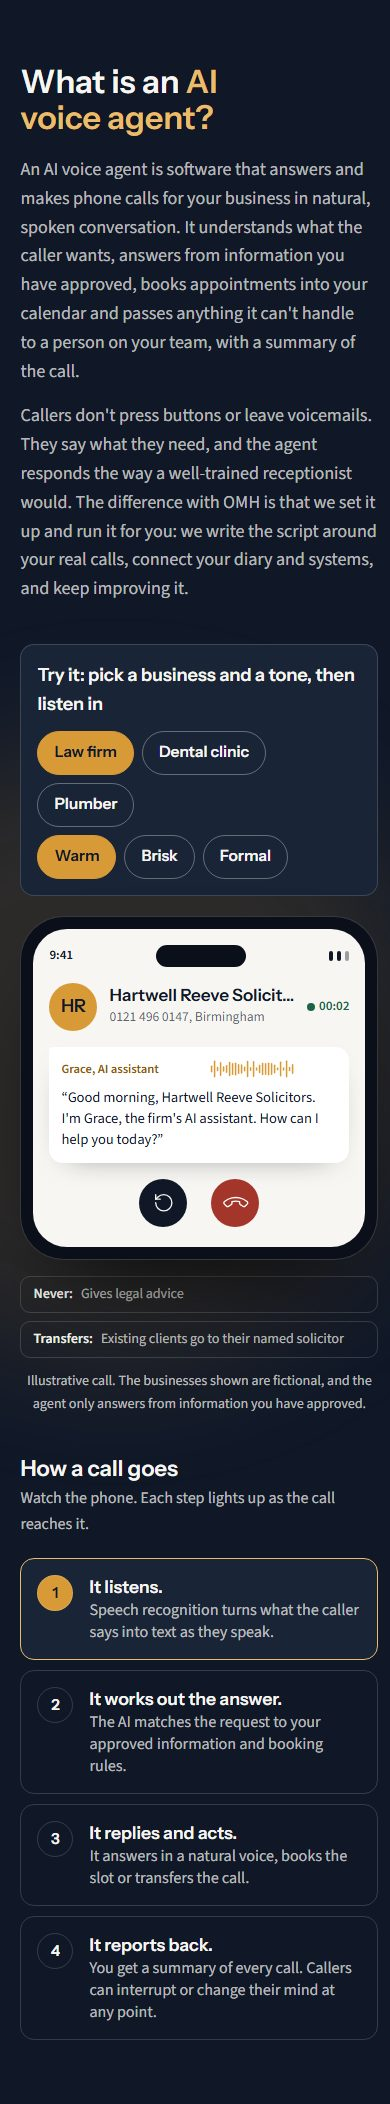
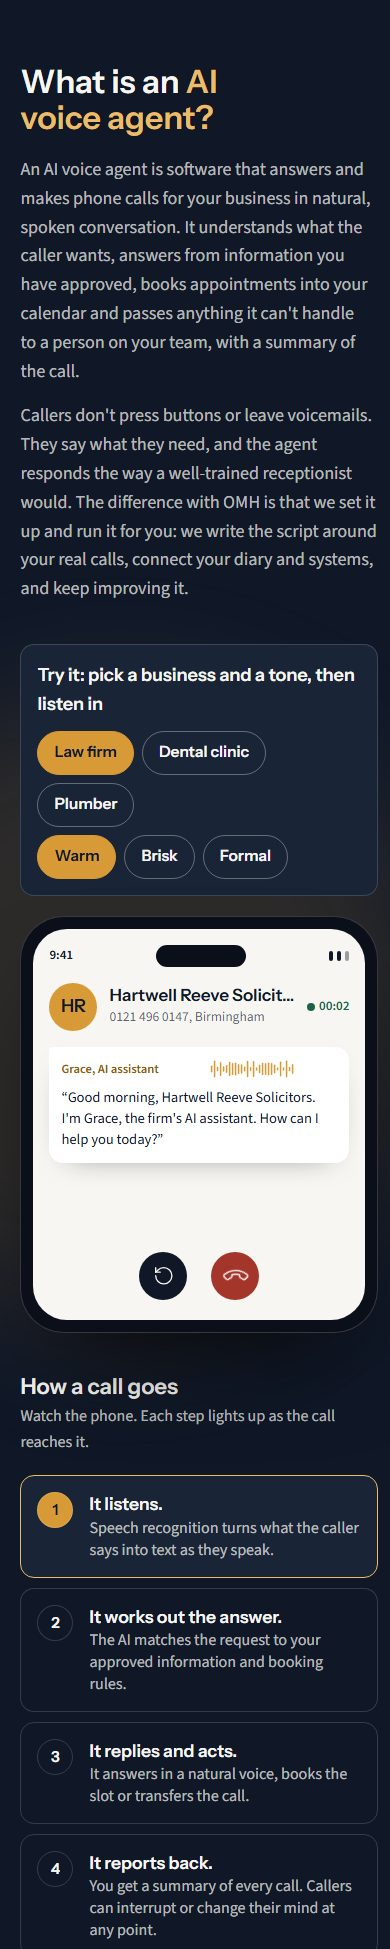
/ai-voice-agents: tidy the call player, hide unbuilt links, fix feedback reveal, mobile comparison cards
Removes the Never/Transfers tiles and caption under the call-player phone.
Hides the Industries grid "Learn more" links until those pages exist; the
industry tabs link only to the three pages that do. Client feedback cards no
longer depend on a scroll-reveal observer (they rendered blank after a
reload) and the YouTube note is gone. The mobile comparison is one card per
criterion with a labelled OMH cell and a labelled alternative cell.

diff --git a/lib/content/ai-voice-agents-legacy.ts b/lib/content/ai-voice-agents-legacy.ts
@@ -80,10 +80,6 @@ export const legacyMarkup = String.raw`
           <li class="flex gap-2.5"><svg class="icon mt-[3px] text-hl" aria-hidden="true" focusable="false"><use href="#i-check"/></svg><span>Qualify buyers and tenants</span></li>
           <li class="flex gap-2.5"><svg class="icon mt-[3px] text-hl" aria-hidden="true" focusable="false"><use href="#i-check"/></svg><span>Log tenant maintenance calls</span></li>
         </ul>
-        
-                <div class="pt-4">
-          <a href="/contact?service=ai-voice-agents&amp;industry=estate-letting-agents" data-future-href="/ai-voice-agents/estate-letting-agents" class="text-link" data-track="industry_click" data-track-name="Estate &amp; Letting Agents">Learn more<span class="sr-only"> about voice agents for estate &amp; letting agents</span><svg class="icon " aria-hidden="true" focusable="false"><use href="#i-arrow-right"/></svg></a>
-        </div>
         </div>
       </article>
       <article class="grid items-start gap-4 rounded-[18px] border border-line bg-surface p-5 sm:grid-cols-[160px_minmax(0,1fr)] sm:gap-6" data-industry data-group="health">
@@ -113,9 +109,6 @@ export const legacyMarkup = String.raw`
           <li class="flex gap-2.5"><svg class="icon mt-[3px] text-hl" aria-hidden="true" focusable="false"><use href="#i-check"/></svg><span>Route urgent calls to your emergency line</span></li>
         </ul>
         <p class="mt-3 flex items-center gap-2 rounded-[10px] border border-line bg-surface px-3 py-2 text-[16px] font-semibold"><svg class="icon text-hl" aria-hidden="true" focusable="false"><use href="#i-shield"/></svg><span>No clinical or medical advice given.</span></p>
-                <div class="pt-4">
-          <a href="/contact?service=ai-voice-agents&amp;industry=dental-clinics" data-future-href="/ai-voice-agents/dental-clinics" class="text-link" data-track="industry_click" data-track-name="Dental Clinics">Learn more<span class="sr-only"> about voice agents for dental clinics</span><svg class="icon " aria-hidden="true" focusable="false"><use href="#i-arrow-right"/></svg></a>
-        </div>
         </div>
       </article>
       <article class="grid items-start gap-4 rounded-[18px] border border-line bg-surface p-5 sm:grid-cols-[160px_minmax(0,1fr)] sm:gap-6" data-industry data-group="health">
@@ -145,9 +138,6 @@ export const legacyMarkup = String.raw`
           <li class="flex gap-2.5"><svg class="icon mt-[3px] text-hl" aria-hidden="true" focusable="false"><use href="#i-check"/></svg><span>Confirmation calls to cut no-shows</span></li>
         </ul>
         <p class="mt-3 flex items-center gap-2 rounded-[10px] border border-line bg-surface px-3 py-2 text-[16px] font-semibold"><svg class="icon text-hl" aria-hidden="true" focusable="false"><use href="#i-shield"/></svg><span>No clinical or medical advice given.</span></p>
-                <div class="pt-4">
-          <a href="/contact?service=ai-voice-agents&amp;industry=clinics-healthcare" data-future-href="/ai-voice-agents/clinics-healthcare" class="text-link" data-track="industry_click" data-track-name="Clinics &amp; Healthcare">Learn more<span class="sr-only"> about voice agents for clinics &amp; healthcare</span><svg class="icon " aria-hidden="true" focusable="false"><use href="#i-arrow-right"/></svg></a>
-        </div>
         </div>
       </article>
       <article class="grid items-start gap-4 rounded-[18px] border border-line bg-surface p-5 sm:grid-cols-[160px_minmax(0,1fr)] sm:gap-6" data-industry data-group="trades">
@@ -179,10 +169,6 @@ export const legacyMarkup = String.raw`
           <li class="flex gap-2.5"><svg class="icon mt-[3px] text-hl" aria-hidden="true" focusable="false"><use href="#i-check"/></svg><span>Put emergencies through to the plumber on call</span></li>
           <li class="flex gap-2.5"><svg class="icon mt-[3px] text-hl" aria-hidden="true" focusable="false"><use href="#i-check"/></svg><span>Book quote visits</span></li>
         </ul>
-        
-                <div class="pt-4">
-          <a href="/contact?service=ai-voice-agents&amp;industry=plumbers" data-future-href="/ai-voice-agents/plumbers" class="text-link" data-track="industry_click" data-track-name="Plumbers">Learn more<span class="sr-only"> about voice agents for plumbers</span><svg class="icon " aria-hidden="true" focusable="false"><use href="#i-arrow-right"/></svg></a>
-        </div>
         </div>
       </article>
       <article class="grid items-start gap-4 rounded-[18px] border border-line bg-surface p-5 sm:grid-cols-[160px_minmax(0,1fr)] sm:gap-6" data-industry data-group="trades">
@@ -214,10 +200,6 @@ export const legacyMarkup = String.raw`
           <li class="flex gap-2.5"><svg class="icon mt-[3px] text-hl" aria-hidden="true" focusable="false"><use href="#i-check"/></svg><span>Record make, model and fault code</span></li>
           <li class="flex gap-2.5"><svg class="icon mt-[3px] text-hl" aria-hidden="true" focusable="false"><use href="#i-check"/></svg><span>Put no-heating calls first</span></li>
         </ul>
-        
-                <div class="pt-4">
-          <a href="/contact?service=ai-voice-agents&amp;industry=heating-hvac" data-future-href="/ai-voice-agents/heating-hvac" class="text-link" data-track="industry_click" data-track-name="Heating &amp; HVAC">Learn more<span class="sr-only"> about voice agents for heating &amp; hvac</span><svg class="icon " aria-hidden="true" focusable="false"><use href="#i-arrow-right"/></svg></a>
-        </div>
         </div>
       </article>
       <article class="grid items-start gap-4 rounded-[18px] border border-line bg-surface p-5 sm:grid-cols-[160px_minmax(0,1fr)] sm:gap-6" data-industry data-group="trades">
@@ -243,10 +225,6 @@ export const legacyMarkup = String.raw`
           <li class="flex gap-2.5"><svg class="icon mt-[3px] text-hl" aria-hidden="true" focusable="false"><use href="#i-check"/></svg><span>Book site visits and quotes</span></li>
           <li class="flex gap-2.5"><svg class="icon mt-[3px] text-hl" aria-hidden="true" focusable="false"><use href="#i-check"/></svg><span>Route clients to their site manager</span></li>
         </ul>
-        
-                <div class="pt-4">
-          <a href="/contact?service=ai-voice-agents&amp;industry=contractors-builders" data-future-href="/ai-voice-agents/contractors-builders" class="text-link" data-track="industry_click" data-track-name="Contractors &amp; Builders">Learn more<span class="sr-only"> about voice agents for contractors &amp; builders</span><svg class="icon " aria-hidden="true" focusable="false"><use href="#i-arrow-right"/></svg></a>
-        </div>
         </div>
       </article>
       <article class="grid items-start gap-4 rounded-[18px] border border-line bg-surface p-5 sm:grid-cols-[160px_minmax(0,1fr)] sm:gap-6" data-industry data-group="professional">
@@ -271,9 +249,6 @@ export const legacyMarkup = String.raw`
           <li class="flex gap-2.5"><svg class="icon mt-[3px] text-hl" aria-hidden="true" focusable="false"><use href="#i-check"/></svg><span>Route clients to their named solicitor</span></li>
         </ul>
         <p class="mt-3 flex items-center gap-2 rounded-[10px] border border-line bg-surface px-3 py-2 text-[16px] font-semibold"><svg class="icon text-hl" aria-hidden="true" focusable="false"><use href="#i-shield"/></svg><span>No legal advice given.</span></p>
-                <div class="pt-4">
-          <a href="/contact?service=ai-voice-agents&amp;industry=law-firms" data-future-href="/ai-voice-agents/law-firms" class="text-link" data-track="industry_click" data-track-name="Law Firms">Learn more<span class="sr-only"> about voice agents for law firms</span><svg class="icon " aria-hidden="true" focusable="false"><use href="#i-arrow-right"/></svg></a>
-        </div>
         </div>
       </article>
       <article class="grid items-start gap-4 rounded-[18px] border border-line bg-surface p-5 sm:grid-cols-[160px_minmax(0,1fr)] sm:gap-6" data-industry data-group="professional">
@@ -297,10 +272,6 @@ export const legacyMarkup = String.raw`
           <li class="flex gap-2.5"><svg class="icon mt-[3px] text-hl" aria-hidden="true" focusable="false"><use href="#i-check"/></svg><span>Stock and opening-hours questions</span></li>
           <li class="flex gap-2.5"><svg class="icon mt-[3px] text-hl" aria-hidden="true" focusable="false"><use href="#i-check"/></svg><span>Collect part-exchange details</span></li>
         </ul>
-        
-                <div class="pt-4">
-          <a href="/contact?service=ai-voice-agents&amp;industry=car-dealerships" data-future-href="/ai-voice-agents/car-dealerships" class="text-link" data-track="industry_click" data-track-name="Car Dealerships">Learn more<span class="sr-only"> about voice agents for car dealerships</span><svg class="icon " aria-hidden="true" focusable="false"><use href="#i-arrow-right"/></svg></a>
-        </div>
         </div>
       </article>
             <aside class="on-band grid items-center gap-4 rounded-[18px] bg-band p-5 text-band-ink sm:grid-cols-[120px_minmax(0,1fr)] sm:gap-6 lg:col-span-2" aria-labelledby="industries-cta-title">
@@ -333,8 +304,8 @@ export const legacyMarkup = String.raw`
       <div class="border-t border-line py-5 sm:border-l sm:border-t-0 sm:pl-6"><dd class="font-display text-[30px] font-semibold leading-none tnum">38%</dd><dt class="mt-1.5 text-[16px] text-muted">answered out of hours</dt></div>
     </dl>
 
-    <div class="mt-10 grid gap-6 sm:grid-cols-2 lg:grid-cols-3" data-reveal-group>
-      <figure data-reveal class="flex flex-col rounded-[16px] border border-line bg-surface p-3 transition-colors hover:border-[var(--va-line-strong)]">
+    <div class="mt-10 grid gap-6 sm:grid-cols-2 lg:grid-cols-3">
+      <figure class="flex flex-col rounded-[16px] border border-line bg-surface p-3 transition-colors hover:border-[var(--va-line-strong)]">
         <div class="relative aspect-video overflow-hidden rounded-[11px] bg-[var(--va-tint-1)]">
           <button type="button" class="group absolute inset-0 block w-full text-left" aria-haspopup="dialog" data-video-modal-open data-video-id="" data-video-title="Evening calls at a Manchester dental practice" data-video-meta="Practice manager. Dental clinic, Manchester" data-track="testimonial_video_open" data-track-name="Dental clinic, Manchester" aria-label="Play video testimonial: Evening calls at a Manchester dental practice (opens in a pop-up)">
             <span class="pointer-events-none absolute -right-6 -top-4 text-ink/10" aria-hidden="true"><svg class="icon !h-[150px] !w-[150px]" aria-hidden="true" focusable="false"><use href="#i-tooth"/></svg></span>
@@ -351,7 +322,7 @@ export const legacyMarkup = String.raw`
           <span class="mt-auto flex flex-wrap items-center gap-2 pt-4"><span class="chip">Dental clinic</span><span class="chip"><svg class="icon " aria-hidden="true" focusable="false"><use href="#i-map-pin"/></svg>Manchester</span><span class="chip chip-pending">Voice agent result: pending</span></span>
         </figcaption>
       </figure>
-      <figure data-reveal class="flex flex-col rounded-[16px] border border-line bg-surface p-3 transition-colors hover:border-[var(--va-line-strong)]">
+      <figure class="flex flex-col rounded-[16px] border border-line bg-surface p-3 transition-colors hover:border-[var(--va-line-strong)]">
         <div class="relative aspect-video overflow-hidden rounded-[11px] bg-[var(--va-tint-4)]">
           <button type="button" class="group absolute inset-0 block w-full text-left" aria-haspopup="dialog" data-video-modal-open data-video-id="" data-video-title="A first winter of breakdown calls in Leeds" data-video-meta="Director. Heating engineers, Leeds" data-track="testimonial_video_open" data-track-name="Heating engineers, Leeds" aria-label="Play video testimonial: A first winter of breakdown calls in Leeds (opens in a pop-up)">
             <span class="pointer-events-none absolute -right-6 -top-4 text-ink/10" aria-hidden="true"><svg class="icon !h-[150px] !w-[150px]" aria-hidden="true" focusable="false"><use href="#i-flame"/></svg></span>
@@ -368,7 +339,7 @@ export const legacyMarkup = String.raw`
           <span class="mt-auto flex flex-wrap items-center gap-2 pt-4"><span class="chip">Heating engineers</span><span class="chip"><svg class="icon " aria-hidden="true" focusable="false"><use href="#i-map-pin"/></svg>Leeds</span><span class="chip chip-pending">Voice agent result: pending</span></span>
         </figcaption>
       </figure>
-      <figure data-reveal class="flex flex-col rounded-[16px] border border-line bg-surface p-3 transition-colors hover:border-[var(--va-line-strong)]">
+      <figure class="flex flex-col rounded-[16px] border border-line bg-surface p-3 transition-colors hover:border-[var(--va-line-strong)]">
         <div class="relative aspect-video overflow-hidden rounded-[11px] bg-[var(--va-tint-2)]">
           <button type="button" class="group absolute inset-0 block w-full text-left" aria-haspopup="dialog" data-video-modal-open data-video-id="" data-video-title="Saturday viewing requests at a London branch" data-video-meta="Branch manager. Estate agents, London" data-track="testimonial_video_open" data-track-name="Estate agents, London" aria-label="Play video testimonial: Saturday viewing requests at a London branch (opens in a pop-up)">
             <span class="pointer-events-none absolute -right-6 -top-4 text-ink/10" aria-hidden="true"><svg class="icon !h-[150px] !w-[150px]" aria-hidden="true" focusable="false"><use href="#i-home"/></svg></span>
@@ -385,7 +356,7 @@ export const legacyMarkup = String.raw`
           <span class="mt-auto flex flex-wrap items-center gap-2 pt-4"><span class="chip">Estate agents</span><span class="chip"><svg class="icon " aria-hidden="true" focusable="false"><use href="#i-map-pin"/></svg>London</span><span class="chip chip-pending">Voice agent result: pending</span></span>
         </figcaption>
       </figure>
-      <figure data-reveal class="flex flex-col rounded-[16px] border border-line bg-surface p-3 transition-colors hover:border-[var(--va-line-strong)]">
+      <figure class="flex flex-col rounded-[16px] border border-line bg-surface p-3 transition-colors hover:border-[var(--va-line-strong)]">
         <div class="relative aspect-video overflow-hidden rounded-[11px] bg-[var(--va-tint-2)]">
           <button type="button" class="group absolute inset-0 block w-full text-left" aria-haspopup="dialog" data-video-modal-open data-video-id="" data-video-title="New enquiries while fee earners are in court" data-video-meta="Partner. Law firm, Birmingham" data-track="testimonial_video_open" data-track-name="Law firm, Birmingham" aria-label="Play video testimonial: New enquiries while fee earners are in court (opens in a pop-up)">
             <span class="pointer-events-none absolute -right-6 -top-4 text-ink/10" aria-hidden="true"><svg class="icon !h-[150px] !w-[150px]" aria-hidden="true" focusable="false"><use href="#i-scale"/></svg></span>
@@ -402,7 +373,7 @@ export const legacyMarkup = String.raw`
           <span class="mt-auto flex flex-wrap items-center gap-2 pt-4"><span class="chip">Law firm</span><span class="chip"><svg class="icon " aria-hidden="true" focusable="false"><use href="#i-map-pin"/></svg>Birmingham</span><span class="chip chip-pending">Voice agent result: pending</span></span>
         </figcaption>
       </figure>
-      <figure data-reveal class="flex flex-col rounded-[16px] border border-line bg-surface p-3 transition-colors hover:border-[var(--va-line-strong)]">
+      <figure class="flex flex-col rounded-[16px] border border-line bg-surface p-3 transition-colors hover:border-[var(--va-line-strong)]">
         <div class="relative aspect-video overflow-hidden rounded-[11px] bg-[var(--va-tint-3)]">
           <button type="button" class="group absolute inset-0 block w-full text-left" aria-haspopup="dialog" data-video-modal-open data-video-id="" data-video-title="The morning service rush in Liverpool" data-video-meta="Service manager. Car dealership, Liverpool" data-track="testimonial_video_open" data-track-name="Car dealership, Liverpool" aria-label="Play video testimonial: The morning service rush in Liverpool (opens in a pop-up)">
             <span class="pointer-events-none absolute -right-6 -top-4 text-ink/10" aria-hidden="true"><svg class="icon !h-[150px] !w-[150px]" aria-hidden="true" focusable="false"><use href="#i-car"/></svg></span>
@@ -419,7 +390,7 @@ export const legacyMarkup = String.raw`
           <span class="mt-auto flex flex-wrap items-center gap-2 pt-4"><span class="chip">Car dealership</span><span class="chip"><svg class="icon " aria-hidden="true" focusable="false"><use href="#i-map-pin"/></svg>Liverpool</span><span class="chip chip-pending">Voice agent result: pending</span></span>
         </figcaption>
       </figure>
-      <figure data-reveal class="flex flex-col rounded-[16px] border border-line bg-surface p-3 transition-colors hover:border-[var(--va-line-strong)]">
+      <figure class="flex flex-col rounded-[16px] border border-line bg-surface p-3 transition-colors hover:border-[var(--va-line-strong)]">
         <div class="relative aspect-video overflow-hidden rounded-[11px] bg-[var(--va-tint-1)]">
           <button type="button" class="group absolute inset-0 block w-full text-left" aria-haspopup="dialog" data-video-modal-open data-video-id="" data-video-title="Quote requests captured from site in Bristol" data-video-meta="Owner. Building contractor, Bristol" data-track="testimonial_video_open" data-track-name="Building contractor, Bristol" aria-label="Play video testimonial: Quote requests captured from site in Bristol (opens in a pop-up)">
             <span class="pointer-events-none absolute -right-6 -top-4 text-ink/10" aria-hidden="true"><svg class="icon !h-[150px] !w-[150px]" aria-hidden="true" focusable="false"><use href="#i-hard-hat"/></svg></span>
@@ -437,7 +408,6 @@ export const legacyMarkup = String.raw`
         </figcaption>
       </figure>
     </div>
-    <p class="mt-6 text-[16px] text-muted">Each video opens in a pop-up and loads from YouTube's privacy-enhanced player only when you press play.</p>
   </div>
 </section>
 
@@ -603,13 +573,13 @@ ${roiCalculator("any-business")}
         <thead>
           <tr>
             <th scope="col" class="w-[16%] px-5 pb-4 pt-5 align-bottom text-[16px] font-semibold uppercase tracking-[0.14em] text-muted">What matters</th>
-            <th scope="col" class="cmp-omh w-[16.8%] px-5 pb-4 pt-5 align-bottom text-ink"><span class="mb-2 inline-flex rounded-full bg-gold px-2.5 py-0.5 text-[16px] font-semibold text-navy">Managed for you</span><span class="block font-display text-[18px] font-semibold">OMH AI voice agent</span></th>${cmpCols.slice(1).map((c) => `<th scope="col" class="w-[16.8%] px-5 pb-4 pt-5 align-bottom"><span class="font-display text-[18px] font-semibold text-ink">${c}</span></th>`).join("")}
+            <th scope="col" class="cmp-omh w-[16.8%] px-5 pb-4 pt-5 align-bottom text-ink"><span class="mb-2 inline-flex rounded-full bg-gold px-2.5 py-0.5 text-[16px] font-semibold text-navy">Managed for you</span><span class="block font-display text-[18px] font-semibold">OMH AI voice agent</span></th>${cmpCols.slice(1).map((c) => `<th scope="col" class="w-[16.8%] px-5 pb-4 pt-5 align-bottom"><span class="font-display text-[18px] font-semibold text-ink">${c}</span></th>`).join("\n")}
           </tr>
         </thead>
         <tbody>
 ${cmpRows.map(([k, ...v]) => `          <tr>
             <th scope="row" class="border-t border-line px-5 py-4 align-top font-display text-[16px] font-semibold">${k}</th>
-            ${v.map((t, i) => `<td class="${i ? "text-muted" : "cmp-omh font-semibold"} border-t border-line px-5 py-4 align-top">${t}</td>`).join("")}
+            ${v.map((t, i) => `<td class="${i ? "text-muted" : "cmp-omh font-semibold"} border-t border-line px-5 py-4 align-top">${t}</td>`).join("\n")}
           </tr>`).join("\n")}
         </tbody>
       </table>
@@ -620,21 +590,16 @@ ${cmpRows.map(([k, ...v]) => `          <tr>
       <div role="radiogroup" aria-labelledby="cmp-pick-label" class="mt-3 flex flex-wrap gap-2" data-cmp-group>
 ${cmpCols.slice(1).map((c, i) => `        <button type="button" role="radio" aria-checked="${!i}" tabindex="${i ? -1 : 0}" class="min-h-[44px] rounded-full border border-[var(--va-line-strong)] px-4 text-[16px] font-semibold aria-checked:border-ink aria-checked:bg-ink aria-checked:text-paper" data-cmp-opt="${i + 1}" data-track="compare_option" data-track-name="${c}">${c}</button>`).join("\n")}
       </div>
-      <div class="mt-5 overflow-hidden rounded-[16px] border border-line bg-surface" aria-live="polite">
-        <div class="grid grid-cols-2 border-b border-line text-[16px] font-semibold">
-          <p class="cmp-omh px-4 py-3">OMH AI voice agent</p>
-          <p class="px-4 py-3" data-cmp-name>${cmpCols[1]}</p>
-        </div>
-        <dl>
-${cmpRows.map(([k, omh, ...v]) => `          <div class="border-b border-line last:border-0">
-            <dt class="px-4 pt-3 text-[16px] font-semibold uppercase tracking-[0.14em] text-muted">${k}</dt>
-            <dd class="grid grid-cols-2 text-[16px] leading-snug">
-              <span class="cmp-omh px-4 pb-3 pt-1.5 font-semibold">${omh}</span>
-              ${v.map((t, i) => `<span class="px-4 pb-3 pt-1.5 text-muted" data-cmp-cell="${i + 1}"${i ? " hidden" : ""}>${t}</span>`).join("")}
-            </dd>
-          </div>`).join("\n")}
-        </dl>
-      </div>
+      <p class="sr-only" aria-live="polite">Comparing OMH with <span data-cmp-name>${cmpCols[1]}</span></p>
+      <dl class="mt-5 space-y-3">
+${cmpRows.map(([k, omh, ...v]) => `        <div class="rounded-[14px] border border-line bg-surface p-4">
+          <dt class="text-[16px] font-semibold">${k}</dt>
+          <dd class="mt-3 grid grid-cols-2 gap-2 text-[15px] leading-snug">
+            <span class="cmp-omh rounded-[10px] p-3"><span class="block text-[12.5px] font-semibold uppercase tracking-[0.1em] text-hl">OMH</span><span class="mt-1 block font-semibold">${omh}</span></span>
+            ${v.map((t, i) => `<span class="rounded-[10px] bg-paper p-3" data-cmp-cell="${i + 1}"${i ? " hidden" : ""}><span class="block text-[12.5px] font-semibold uppercase tracking-[0.1em] text-muted">${cmpCols[i + 1]}</span><span class="mt-1 block text-muted">${t}</span></span>`).join("\n")}
+          </dd>
+        </div>`).join("\n")}
+      </dl>
     </div>
 
     <p class="mt-4 text-[16px] text-muted">Costs are rough UK guides for a small business, checked in October 2026, not quotes. Answering service and platform prices vary widely by provider and usage.</p>

diff --git a/lib/content/ai-voice-agents-markup.ts b/lib/content/ai-voice-agents-markup.ts
@@ -116,7 +116,7 @@ const industryPanel = (x: (typeof industries)[number], i: number) => `
           <ul class="mt-5 space-y-2 text-[16px] leading-snug">
 ${x.bullets.map(tick).join("\n")}
           </ul>
-${x.note ? `          <p class="mt-4 inline-flex items-center gap-2 self-start rounded-[10px] border border-line bg-paper px-3 py-2 text-[15px] font-semibold">${icon("shield", "text-hl")}${x.note}</p>\n` : ""}          <p class="mt-6"><a href="${x.href ?? `/contact?service=ai-voice-agents&amp;industry=${x.slug}`}" class="text-link" data-track="industry_click" data-track-name="${x.full}">More about voice agents for ${x.full.toLowerCase().replace("&amp;", "and")}${icon("arrow-right")}</a></p>
+${x.note ? `          <p class="mt-4 inline-flex items-center gap-2 self-start rounded-[10px] border border-line bg-paper px-3 py-2 text-[15px] font-semibold">${icon("shield", "text-hl")}${x.note}</p>\n` : ""}          ${x.href ? `<p class="mt-6"><a href="${x.href}" class="text-link" data-track="industry_click" data-track-name="${x.full}">More about voice agents for ${x.full.toLowerCase().replace("&amp;", "and")}${icon("arrow-right")}</a></p>` : ""}
         </div>
       </div>`;
 
@@ -308,11 +308,6 @@ export const voiceAgentsMarkup = String.raw`
           </div>
         </div>
       </div>
-      <dl class="mt-4 grid gap-2 text-[14px] leading-snug sm:grid-cols-2">
-        <div class="flex gap-2 rounded-[10px] border border-band-line px-3 py-2"><dt class="font-semibold">Never:</dt><dd class="text-band-muted" data-brand-never>Gives legal advice</dd></div>
-        <div class="flex gap-2 rounded-[10px] border border-band-line px-3 py-2"><dt class="font-semibold">Transfers:</dt><dd class="text-band-muted" data-brand-transfer>Existing clients go to their named solicitor</dd></div>
-      </dl>
-      <p class="mt-3 text-center text-[14px] text-band-muted">Illustrative call. The businesses shown are fictional, and the agent only answers from information you have approved.</p>
     </div>
   </div>
 </section>

diff --git a/docs/ai-voice-agents-cro/ai-voice-agents-qa-report.md b/docs/ai-voice-agents-cro/ai-voice-agents-qa-report.md
@@ -227,3 +227,9 @@ Later still: the capability explorer replaces the capability rows and the Why ch
 Verified in headless Chrome: click and arrow keys select tabs and show the matching panel, no
 console errors, the "In plain English" eyebrow and `#why-omh` are gone; 13 sections, 21,723px at
 1440 and 40,218px at 390; `tsc`/`eslint` clean; captures retaken.
+Client fixes, same evening: the Never/Transfers tiles and the caption under the call-player phone
+were removed; the Industries grid's "Learn more" links are hidden until those pages exist (the
+industry tabs keep links only for the three pages that do); the Client feedback cards no longer
+wait for a scroll-reveal (they rendered blank after a reload until the observer fired) and the
+YouTube note under them is gone; the mobile comparison is now one card per criterion with a
+labelled OMH cell and a labelled alternative cell, driven by the same chip selector.
